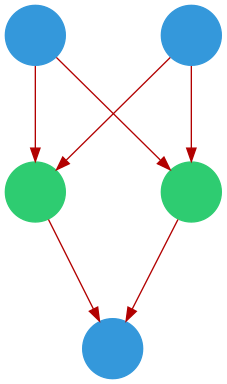
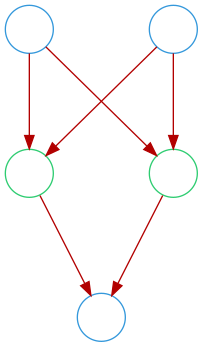
Adding node activation

diff --git a/kviz/dense.py b/kviz/dense.py
@@ -3,7 +3,10 @@ CopyRight goes here
 """
 
 import json
+import imageio
 import pygraphviz
+import matplotlib.pyplot as plt
+from matplotlib.colors import rgb2hex, Normalize
 from networkx import DiGraph, set_node_attributes
 from networkx.drawing.nx_agraph import graphviz_layout, to_agraph
 import tensorflow.keras as keras
@@ -15,6 +18,7 @@ class DenseGraph():
     def __init__(self, model):
         self.model = model
         self._graph = self._make_digraph()
+        self._int_models = self._get_int_models()
 
 
     def _make_digraph(self):
@@ -33,23 +37,102 @@ class DenseGraph():
             
             for n in range(0, layer.input_shape[1]):
                 if l == 0:
-                    graph.add_node(str(l) + str(n), shape='circle', style='filled', color='#3498db', fontcolor='#3498db')
+                    graph.add_node(str(l) + str(n), shape='circle', color='#3498db', label='')
                 else:
-                    graph.add_node(str(l) + str(n), color='#2ecc71', style='filled', fontcolor='#2ecc71', shape='circle')
+                    graph.add_node(str(l) + str(n), shape='circle', color='#2ecc71', label='')
     
                 for h in range(0, layer.output_shape[1]):
                     if l == len(self.model.layers) - 1:
-                        graph.add_node(str(l+1) + str(h), shape='circle', style='filled', color='#3498db', fontcolor='#3498db')
+                        graph.add_node(str(l+1) + str(h), shape='circle', color='#3498db', label='')
                     graph.add_edge(str(l) + str(n), str(l+1) + str(h), color='#B20000')
         
         return graph
 
 
-    def render(self, filename='graph'):
-        """
-        Render visualization of a Sequential Dense keras model.
-        """
+    def _get_int_models(self):
+        intermediate_models = []
+
+        for l in range(len(self.model.layers)):
+            layer = self.model.layers[l]
+            int_model = keras.Sequential()
+
+            for prev_layer in range(l+1):
+                int_layer = self.model.layers[prev_layer]
+                int_model.add(Dense(int_layer.output_shape[1], input_dim=int_layer.input_shape[1], activation=int_layer.activation))  
+                int_model.layers[prev_layer].set_weights(int_layer.get_weights())
+            int_model.compile(loss=self.model.loss)
+            intermediate_models.append(int_model)
+        
+        return intermediate_models
+
+
+    def _snap(self, filename):
         out = to_agraph(self._graph)
         out.layout(prog='dot')
         out.draw(filename+'.png')
+        return imageio.imread(filename+'.png')
+
+
+    def _reset(self):
+        for l in range(len(self.model.layers)):
+            layer = self.model.layers[l]
+            for n in range(0, layer.input_shape[1]):
+                if l == 0:
+                    set_node_attributes(self._graph, {str(l) + str(n):{'label': '', 'fontcolor': '', 'style': '', 'color': '#3498db'}})
+                else:
+                    set_node_attributes(self._graph, {str(l) + str(n):{'label': '', 'fontcolor': '', 'style': '', 'color': '#2ecc71'}})
+            
+            for h in range(0, layer.output_shape[1]):
+                if l == len(self.model.layers) - 1:
+                    set_node_attributes(self._graph, {str(l+1) + str(h):{'label': '', 'fontcolor': '', 'style': '', 'color': '#3498db'}})
+
+
+    def render(self, input=None, filename='graph', duration=.5):
+        """
+        Render visualization of a Sequential Dense keras model.
+        """
+        
+        if input is None:
+            self._snap(filename)
+            return
+        
+        images = []
+        norm = Normalize(vmin=-1, vmax=1.1)
+        gcmap = plt.cm.Greens
+        bcmap = plt.cm.Blues
+
+        predictions = [input]
+        for i in range(len(self._int_models)):
+            predictions.append(self._int_models[i].predict(input))
+        predictions.append(self.model.predict(input))
+
+        for i in range(len(input)):
+            images.append(self._snap(filename))
+
+            for l in range(len(self.model.layers)):
+                layer = self.model.layers[l]
+                int_model = self._int_models[l]
+
+                for n in range(0, layer.input_shape[1]):
+                    act = predictions[l][i][n]
+                    if l == 0:
+                        set_node_attributes(self._graph, {str(l) + str(n):{'label': str(act), 'style': 'filled', 'color': str(rgb2hex(bcmap(norm(act))))}})
+                    else:
+                        set_node_attributes(self._graph, {str(l) + str(n):{'style': 'filled', 'color': str(rgb2hex(gcmap(norm(act))))}})
+
+                if l == len(self.model.layers) - 1:
+                    images.append(self._snap(filename))
+                    self._reset()
+                    
+                for h in range(0, layer.output_shape[1]):
+                    if l == len(self.model.layers) - 1:
+                        act = predictions[l][i][h]
+                        set_node_attributes(self._graph, {str(l+1) + str(h):{'style': 'filled', 'color': str(rgb2hex(bcmap(norm(act))))}})
+
+                images.append(self._snap(filename))
+                self._reset()
+            self._reset()
+        
+        imageio.mimsave(filename+'.gif', images, duration=duration)
         return
+        

diff --git a/tests/test_viz.py b/tests/test_viz.py
@@ -1,6 +1,8 @@
 import pytest
+import numpy as np
 from tensorflow import keras
 from tensorflow.keras import layers
+import matplotlib.pyplot as plt
 
 from kviz.dense import DenseGraph
 
@@ -13,3 +15,42 @@ def test_dense_no_input():
 
     dg = DenseGraph(model)
     dg.render(filename='test_no_input')
+
+
+def test_dense_input_xor():
+    ACTIVATION = "sigmoid"
+    model = keras.models.Sequential()
+    model.add(layers.Dense(3, input_dim=2, activation=ACTIVATION))
+    model.add(layers.Dense(1, activation=ACTIVATION))
+    model.compile(loss="binary_crossentropy")
+
+    X = np.array([
+        [0,0],
+        [0,1],
+        [1,0],
+        [1,1]])
+    Y = np.array([x[0]^x[1] for x in X])
+
+    history = model.fit(X, Y, batch_size=4, epochs=10000)
+
+    colors = np.array(['b', 'g'])
+    fig, ax = plt.subplots()
+    ax.scatter(X[:,0],X[:,1], color=colors[Y].tolist(), s=50, alpha=0.8)
+
+    h = .02
+    x_min, x_max = X[:, 0].min() - .5, X[:, 0].max() + 1
+    y_min, y_max = X[:, 1].min() - .5, X[:, 1].max() + 1
+    xx, yy = np.meshgrid(np.arange(x_min, x_max, h),
+                         np.arange(y_min, y_max, h))
+    meshData = np.c_[xx.ravel(), yy.ravel()]
+
+    Z = model.predict(meshData)
+    Z = np.array([0 if x < .5 else 1 for x in Z])
+    Z = Z.reshape(xx.shape)
+    ax.contourf(xx, yy, Z, alpha=.3, cmap=plt.cm.Paired)
+    ax.axis('off')
+
+    fig.savefig("test_model_xor.png")
+
+    dg = DenseGraph(model)
+    dg.render(input=X, filename='test_input_xor')

diff --git a/setup.py b/setup.py
@@ -17,7 +17,9 @@ setup(
   install_requires=[
     'tf-nightly',
     'networkx',
-    'pygraphviz'
+    'pygraphviz',
+    'matplotlib',
+    'imageio'
   ],
   python_requires='>=3.7, <4',
   setup_requires=['pytest-runner'],

diff --git a/README.md b/README.md
@@ -2,7 +2,9 @@
 
 Visualization library for Keras Neural Networks
 
-## Example
+## Examples
+
+### Architecture Visualization
 
 ```python
     model = keras.models.Sequential()
@@ -18,4 +20,37 @@ Produces the following graph:
 
 <p align="center">
     <img src="examples/base_model.png"/>
+</p>
+
+### Node Activation Visualization
+
+```python
+    model = keras.models.Sequential()
+    model.add(layers.Dense(3, input_dim=2, activation='sigmoid'))
+    model.add(layers.Dense(1, activation='sigmoid'))
+    model.compile(loss="binary_crossentropy")
+
+    X = np.array([
+        [0,0],
+        [0,1],
+        [1,0],
+        [1,1]])
+    Y = np.array([x[0]^x[1] for x in X]) # Xor function
+
+    history = model.fit(X, Y, batch_size=4, epochs=1000)
+
+    dg = DenseGraph(model)
+    dg.render(input=X)
+```
+
+Produces the following decision boundary:
+
+<p align="center">
+    <img src="examples/xor_model.png" width=50% height='auto'>
+</p>
+
+And the following GIF:
+
+<p align="center">
+    <img src="examples/xor_model.gif"/>
 </p>
